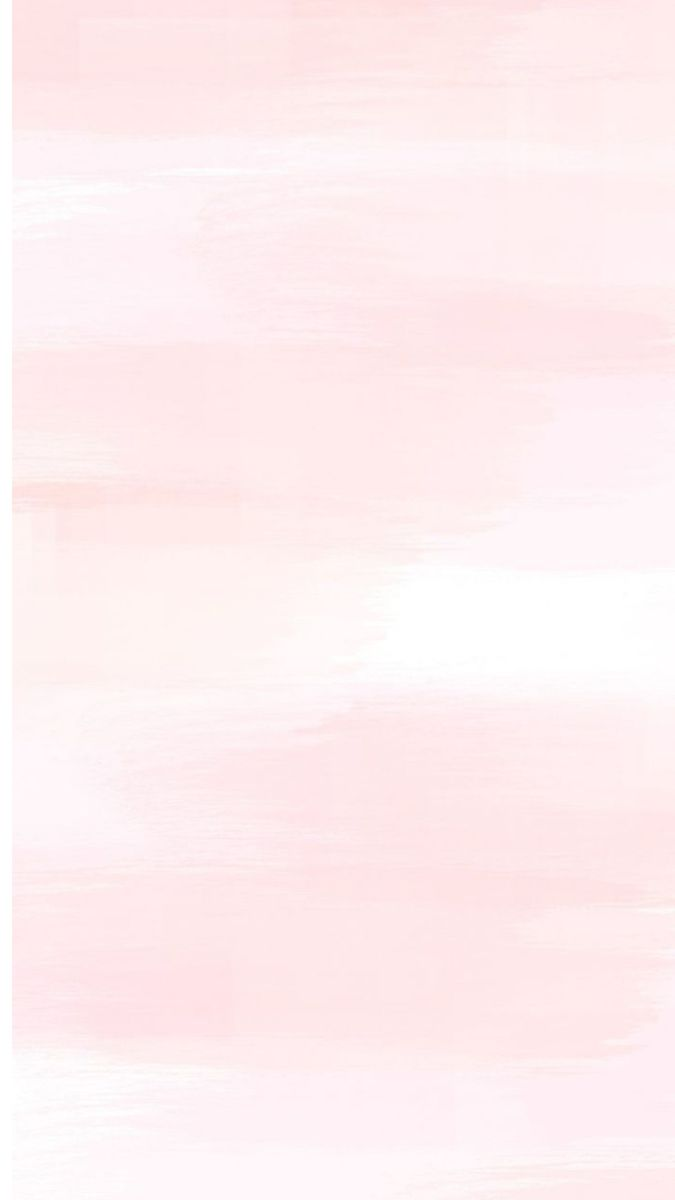
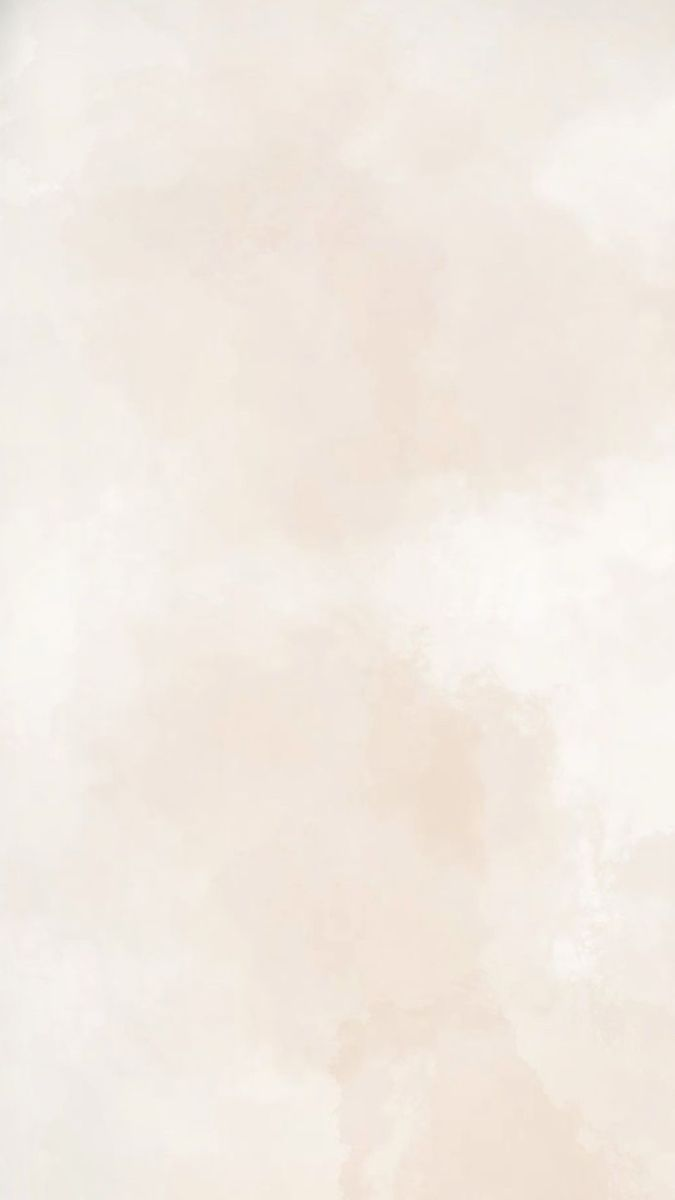
change ornament

diff --git a/public/index.html b/public/index.html
@@ -73,7 +73,7 @@
             <div class="top-ornament">
                 <img src="./assets/top-ornament.png" class="w-full" alt="top-ornament">
             </div>
-            <div class="container mx-auto px-4 text-center">
+            <div class="container mx-auto px-4 text-center pt-[15%]">
                 <h2 class="font-arabic py-4 m-0 text-3xl font-bold">بِسْمِ اللّٰهِ الرَّحْمٰنِ الرَّحِيْمِ</h2>
                 <h2 class="font-esthetic py-4 m-0 text-lg">Assalamualaikum Warahmatullahi Wabarakatuh</h2>
                 <p class="pb-4 px-2 m-0">Tanpa mengurangi rasa hormat, kami mengundang Anda untuk berkenan menghadiri acara pernikahan kami:</p>
@@ -105,38 +105,40 @@
         </section>
 
         <!-- Quran Verse Section -->
-        <section id="verse-section" class="hidden py-20 bg-center bg-repeat bg-[url('./assets/bg-section-2.jpg')] section-animate overflow-hidden">
-            <div class="container mx-auto px-4">
-                <div class="max-w-3xl mx-auto bg-white bg-opacity-20 p-8 rounded-lg text-center">
-                    <h2 class="text-lg font-bold mb-4 text-gray-800 font-sacrramento">Allah Subhanahu Wa Ta'ala Berfirman</h2>
-                    <div class="arabic-text text-2xl mb-4 text-center font-arabic" dir="rtl">
-                        وَمِنْ آيَاتِهِ أَنْ خَلَقَ لَكُم مِّنْ أَنفُسِكُمْ أَزْوَاجًا لِّتَسْكُنُوا إِلَيْهَا وَجَعَلَ بَيْنَكُم مَّوَدَّةً وَرَحْمَةً
-                    </div>
-                    <p class="text-sm mb-4 text-gray-700">
-                        "Dan di antara tanda-tanda kekuasaan-Nya ialah Dia menciptakan untukmu istri-istri dari jenismu sendiri, supaya kamu cenderung dan merasa tenteram kepadanya, dan dijadikan-Nya diantaramu rasa kasih dan sayang." 
-                        <br>(QS. Ar-Rum: 21)
-                    </p>
-                    <div class="flex justify-center gap-4">
-                        <img src="./assets/man.png" alt="Pria muslim berdoa dengan khusyuk" class="rounded-full w-24 h-24 object-cover border-4 border-[#d4a4a0]">
-                        <img src="./assets/woman.png" alt="Wanita muslimah berdoa dengan khusyuk" class="rounded-full w-24 h-24 object-cover border-4 border-[#d4a4a0]">
+        <section id="verse-section" class="hidden bg-center bg-repeat bg-[url('./assets/bg-section-2.jpg')] section-animate overflow-hidden">
+            <div class="bg-white bg-opacity-20 py-20 m-0">
+                <div class="container mx-auto px-4">
+                    <div class="max-w-3xl mx-auto bg-white bg-opacity-20 p-8 rounded-lg text-center">
+                        <h2 class="text-lg font-bold mb-4 text-gray-800 font-sacrramento">Allah Subhanahu Wa Ta'ala Berfirman</h2>
+                        <div class="arabic-text text-2xl mb-4 text-center font-arabic" dir="rtl">
+                            وَمِنْ آيَاتِهِ أَنْ خَلَقَ لَكُم مِّنْ أَنفُسِكُمْ أَزْوَاجًا لِّتَسْكُنُوا إِلَيْهَا وَجَعَلَ بَيْنَكُم مَّوَدَّةً وَرَحْمَةً
+                        </div>
+                        <p class="text-sm mb-4 text-gray-700">
+                            "Dan di antara tanda-tanda kekuasaan-Nya ialah Dia menciptakan untukmu istri-istri dari jenismu sendiri, supaya kamu cenderung dan merasa tenteram kepadanya, dan dijadikan-Nya diantaramu rasa kasih dan sayang." 
+                            <br>(QS. Ar-Rum: 21)
+                        </p>
+                        <div class="flex justify-center gap-4">
+                            <img src="./assets/man.png" alt="Pria muslim berdoa dengan khusyuk" class="rounded-full w-24 h-24 object-cover border-4 border-[#d4a4a0]">
+                            <img src="./assets/woman.png" alt="Wanita muslimah berdoa dengan khusyuk" class="rounded-full w-24 h-24 object-cover border-4 border-[#d4a4a0]">
+                        </div>
                     </div>
                 </div>
-            </div>
-            <div class="bottom-ornament flex justify-center overflow-hidden bottom-[-3.5%]">
-                <img src="./assets/castle.png" class="w-[75%]" alt="bottom-ornament">
+                <div class="bottom-ornament flex justify-center overflow-hidden bottom-[-3.5%]">
+                    <img src="./assets/castle.png" class="w-[75%]" alt="bottom-ornament">
+                </div>
             </div>
         </section>
         
         <!-- Event Details Section -->
         <section class="hidden py-20 bg-center bg-no-repeat section-animate overflow-hidden">
-            <div class="top-ornament">
+            <!-- <div class="top-ornament">
                 <img src="./assets/bg-invitation.png" class="w-full opacity-45" style="animation: none;" alt="">
-            </div>
+            </div> -->
             <div class="container mx-auto px-4">
                 <h2 class="text-3xl font-bold text-center mb-4 text-gray-800 font-sacrramento">Momen Bahagia</h2>
                 <p class="py-2 mb-4 text-center">Dengan memohon rahmat dan ridho Allah Subhanahu Wa Ta'ala, insyaAllah kami akan menyelenggarakan acara:</p>
                 <div class="flex flex-col items-center justify-center gap-8">
-                    <div class="bg-[#ffc6c6]/30 p-8 rounded-lg shadow-md text-center flex-1 max-w-md slide-right">
+                    <div class="bg-[#ffc6c6]/30 p-8 border border-2 border-[#e9979f] rounded-[49%] shadow-md text-center flex-1 max-w-md slide-right">
                         <h3 class="text-lg font-bold mb-4 text-pinky">Akad Nikah</h3>
                         <div class="mb-10">
                             <svg xmlns="http://www.w3.org/2000/svg" class="h-10 w-10 mx-auto text-pinky" fill="none" viewBox="0 0 24 24" stroke="currentColor">
@@ -155,7 +157,7 @@
                         </div>
                         <button class="mt-4 bg-[#e27e7e] hover:bg-[#e78e8e] text-white font-bold text-sm py-2 px-4 rounded" onclick="openMap('akad')">Lihat Peta</button>
                     </div>
-                    <div class="bg-[#ffc6c6]/30 p-8 rounded-lg shadow-md text-center flex-1 max-w-md slide-left">
+                    <div class="bg-[#ffc6c6]/30 p-8 border border-2 border-[#e9979f] rounded-[49%] shadow-md text-center flex-1 max-w-md slide-left">
                         <h3 class="text-lg font-bold mb-4 text-pinky">Resepsi</h3>
                         <div class="mb-10">
                             <svg xmlns="http://www.w3.org/2000/svg" class="h-10 w-10 mx-auto text-pinky" fill="none" viewBox="0 0 24 24" stroke="currentColor">
